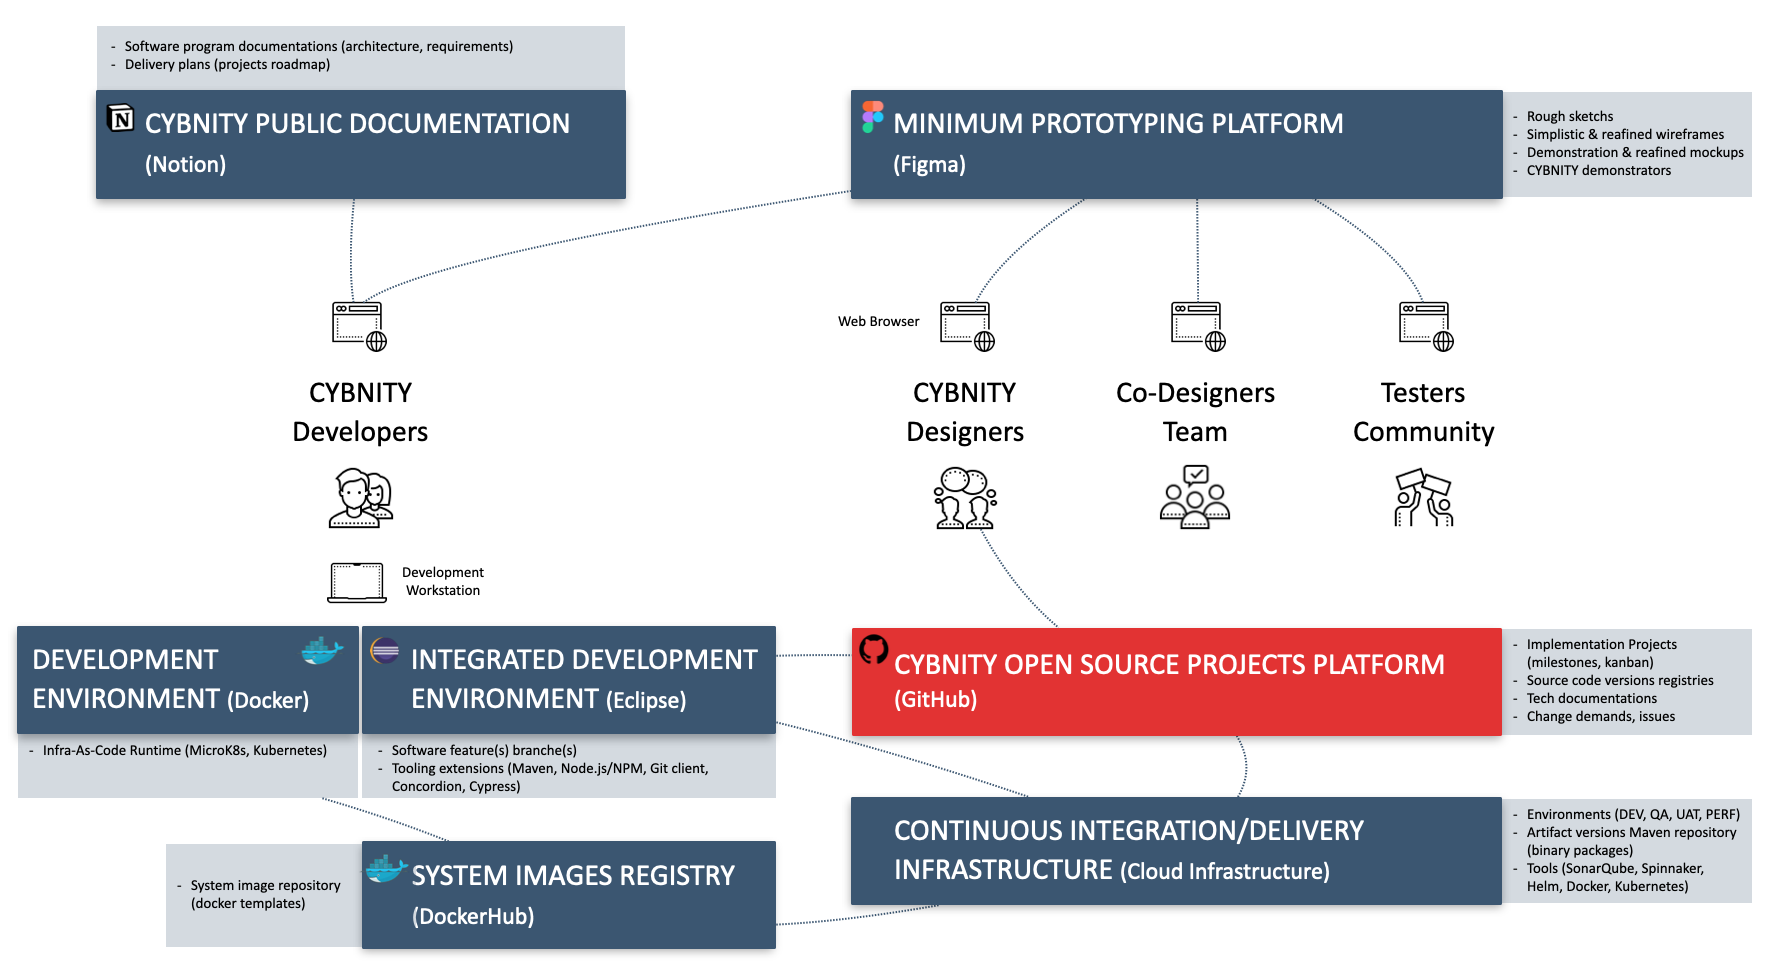
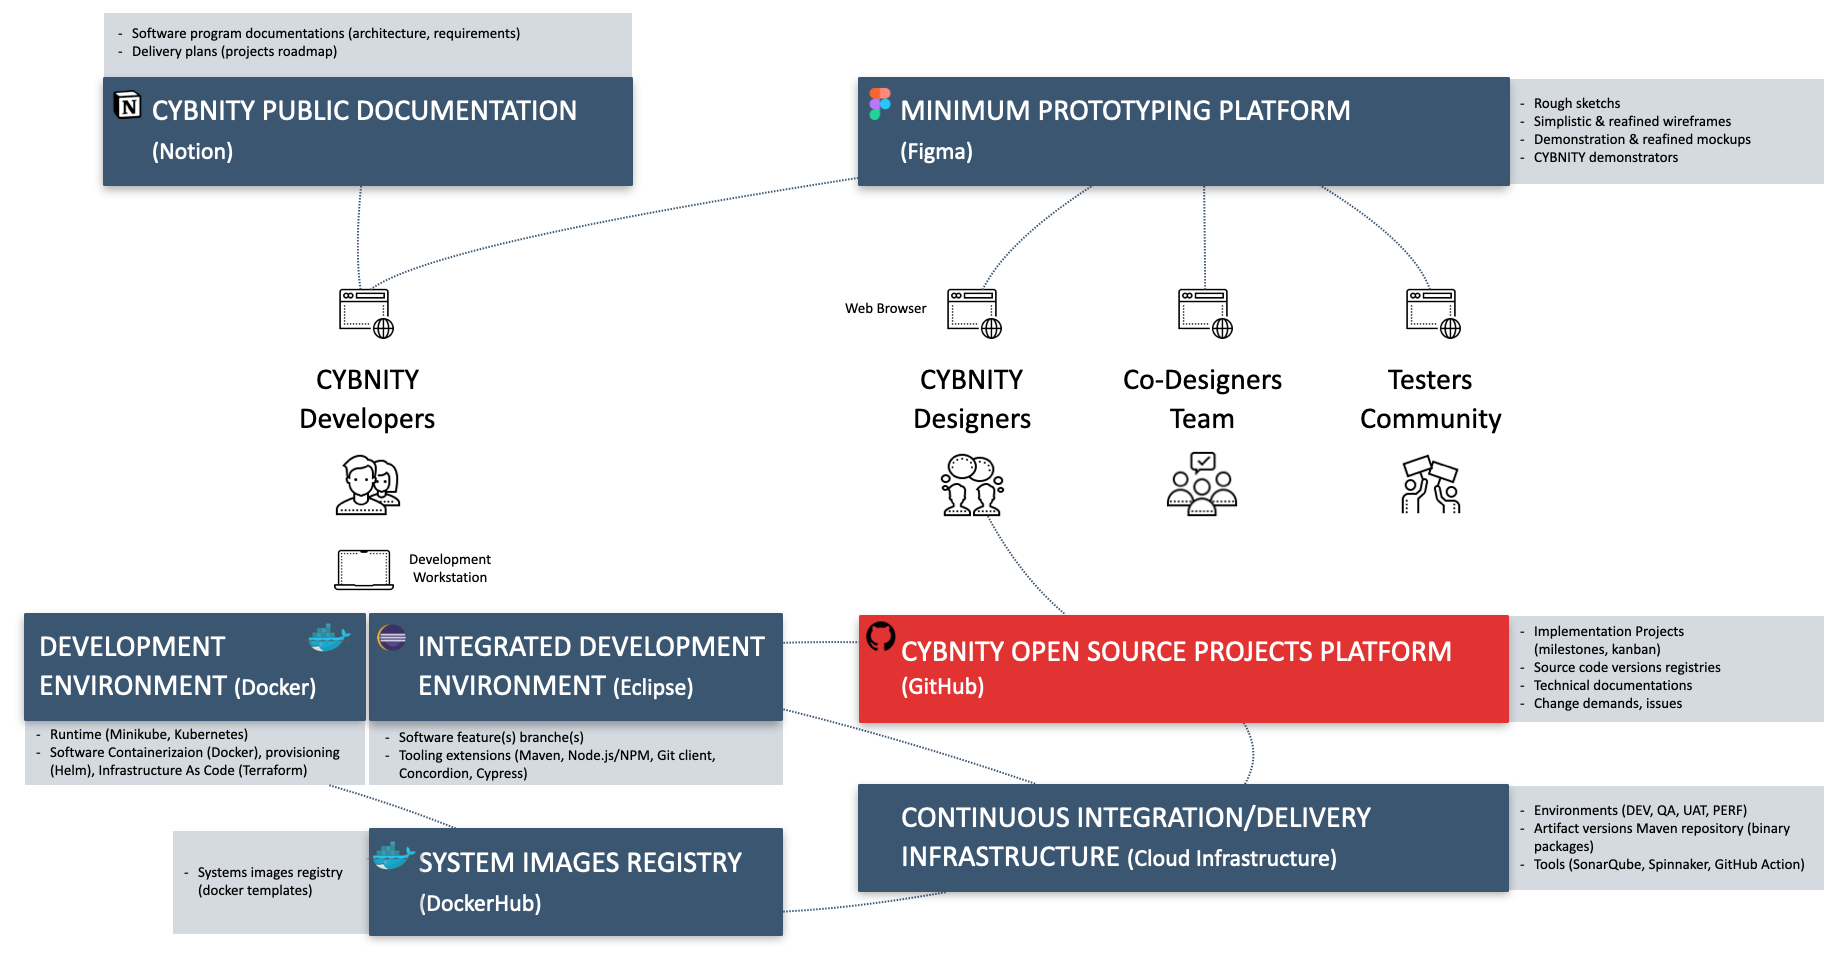
Diagram of software artifacts factory presentation

diff --git a/docs/README.md b/docs/README.md
@@ -35,6 +35,10 @@ The build and delivery of the CYBNITY systems' features is performed through sev
 
 ![image](CYBNITY-workspaces-OS.png)
 
+## SOFTWARE ARTIFACTS FACTORY
+
+![image](CYBNITY-software-artifacts-factory.png)
+
 ### Support and How-To
 - [Developers How-To](how-to/developer-how-to.md): guides about tools, tasks organization and other assistance documentations helping a developper to contribute.
 

diff --git a/docs/how-to/helm-how-to.md b/docs/how-to/helm-how-to.md
@@ -68,7 +68,7 @@ helm uninstall reactive-backend-server-chart
 </details>
 
 ## Charts Distribution
-Helm is usable to package, publish, and fetch Kubernetes applicatiosn as chart archives.
+Helm is usable to package, publish, and fetch Kubernetes applications as Chart archives.
 
 <details><summary>Package chart</summary>
 <p>
